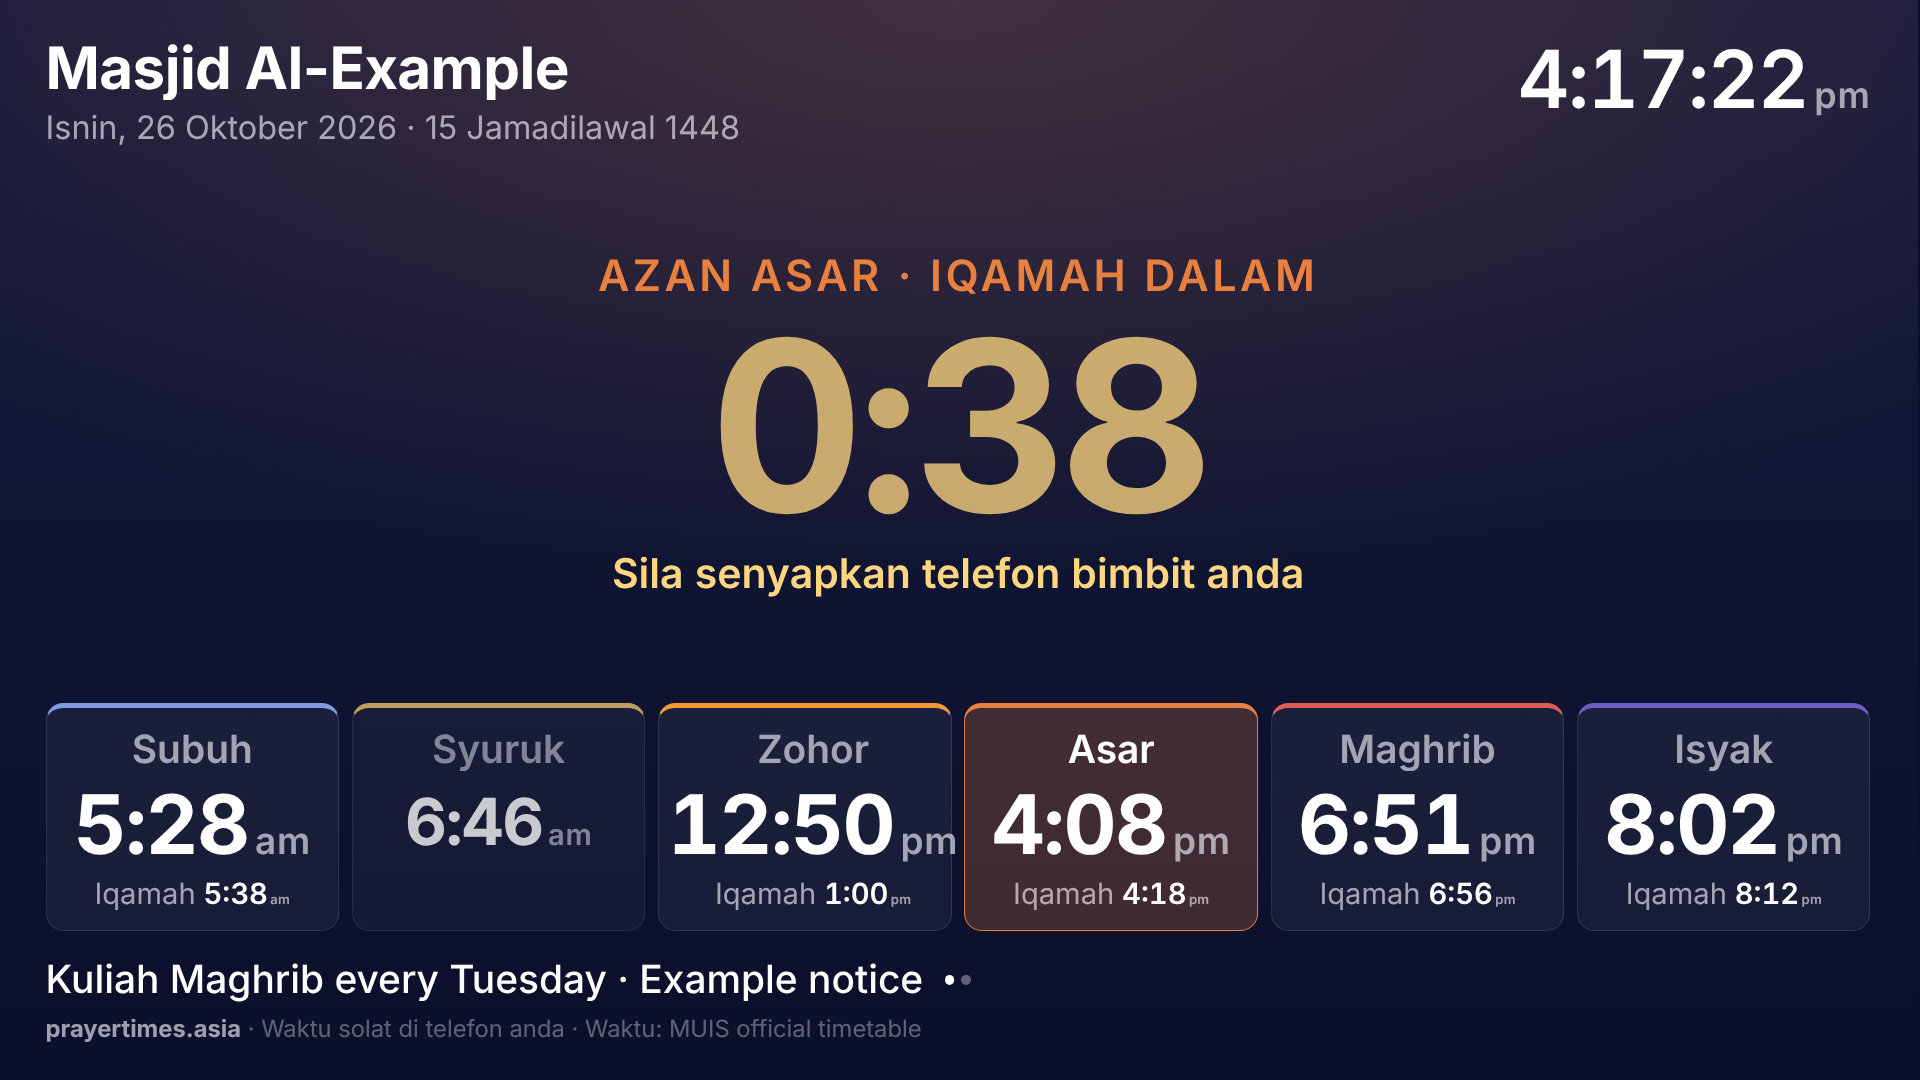
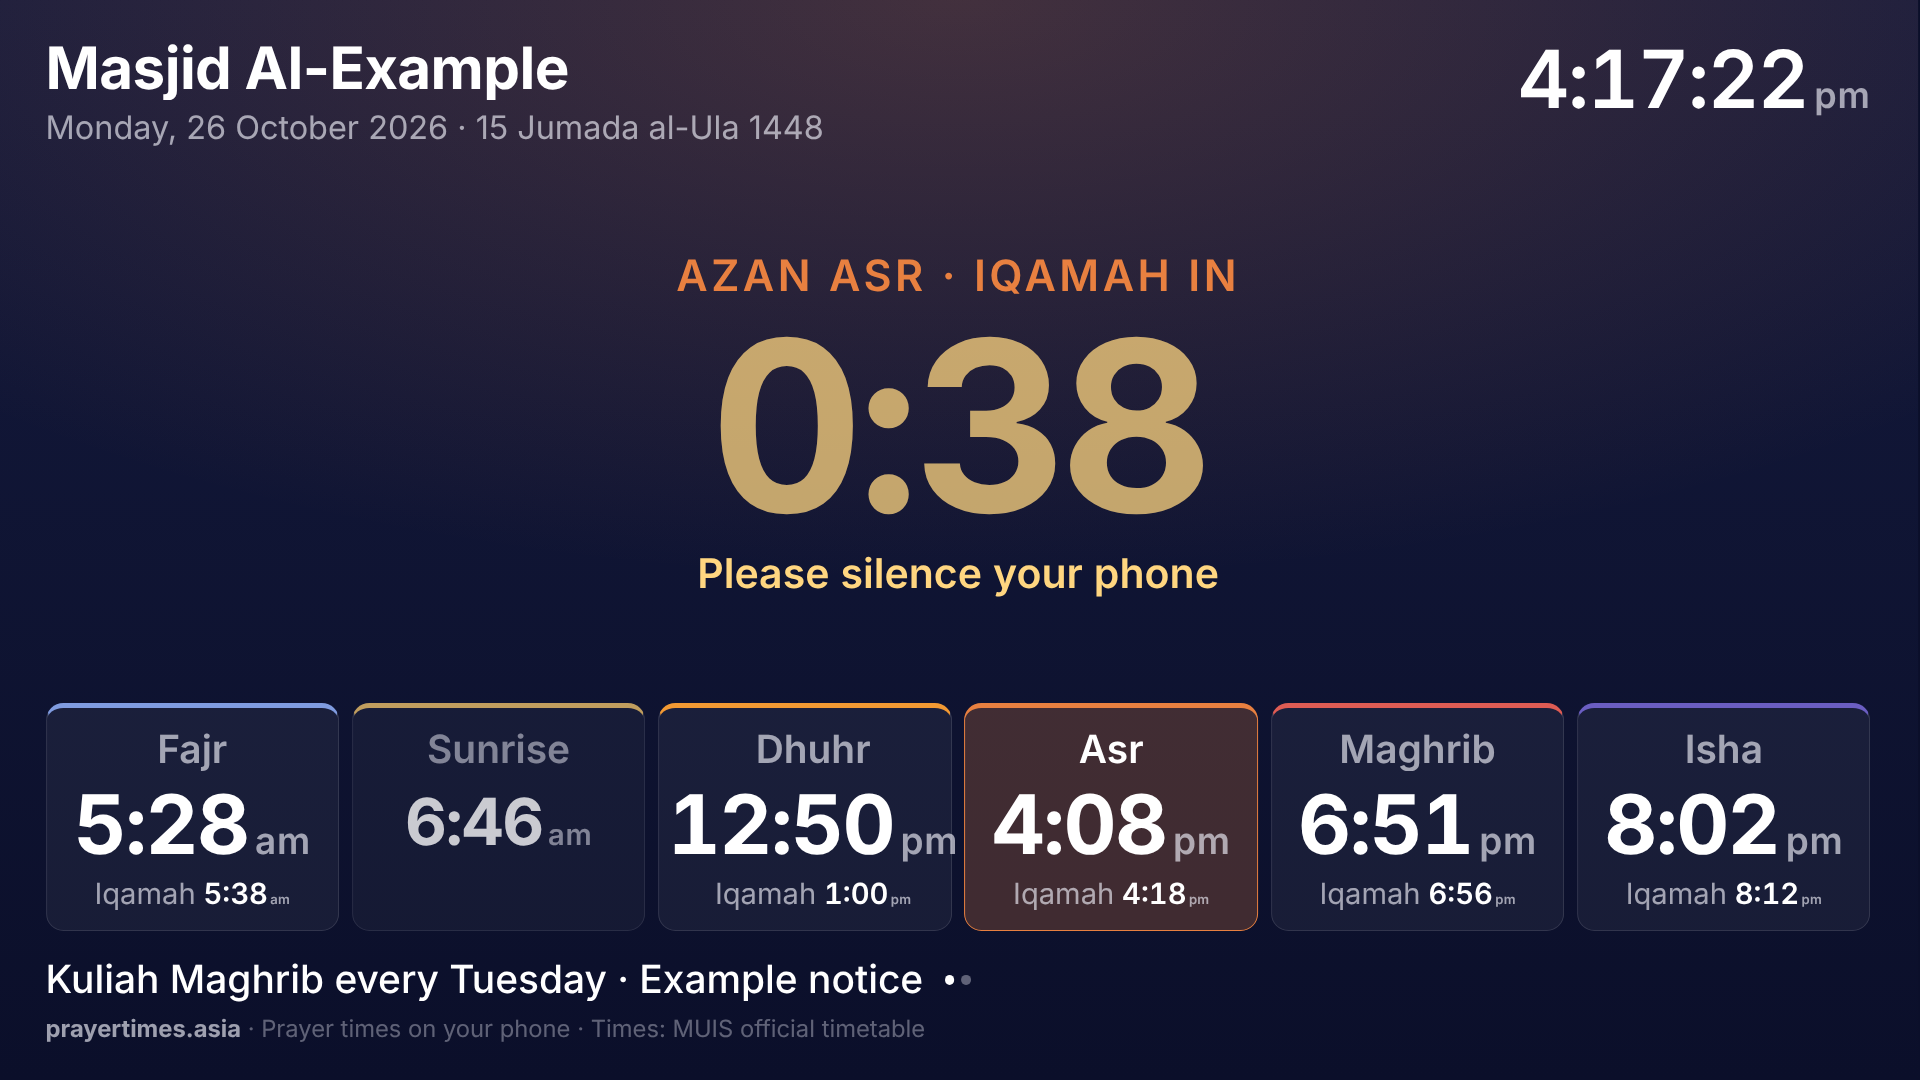
Masjid screen: English by default, three looks (Night, Day, Board)
Claude-Session: https://claude.ai/code/session_01N3UT55kGUzTCzRML5iKXZQ

diff --git a/web/src/screen/Setup.tsx b/web/src/screen/Setup.tsx
@@ -7,7 +7,7 @@ import { nearestCity, searchCities } from '../services/cities'
 import { ensureTable } from '../services/officialTables'
 import {
   encodeConfig, iqamahText, isHHMM, MAX_NOTICE_LENGTH, MAX_NOTICES, OBLIGATORY_PRAYERS, parseIqamah,
-  type Obligatory, type ScreenConfig, type ScreenLanguage, type ScreenPlace,
+  type Obligatory, type ScreenConfig, type ScreenLanguage, type ScreenLook, type ScreenPlace,
 } from './config'
 import { Display } from './Display'
 import { Frame } from './Frame'
@@ -159,6 +159,12 @@ export function Setup({ initial, now, onOpen }: { initial: ScreenConfig; now: nu
 
           <fieldset>
             <legend>Language and look</legend>
+            <label for="s-look">Look</label>
+            <select id="s-look" value={c.look} onChange={(e) => set({ look: (e.target as HTMLSelectElement).value as ScreenLook })}>
+              <option value="night">Night: dark, calm in a dim hall</option>
+              <option value="day">Day: light, for bright halls and foyers</option>
+              <option value="board">Board: times as a list, like a departure board</option>
+            </select>
             <label for="s-names">Prayer names</label>
             <select id="s-names" value={c.names} onChange={(e) => set({ names: (e.target as HTMLSelectElement).value as NamingStyle })}>
               {NAMING_STYLES.map((n) => <option key={n} value={n}>{NAMING_LABEL[n]}</option>)}
@@ -166,9 +172,9 @@ export function Setup({ initial, now, onOpen }: { initial: ScreenConfig; now: nu
             <label class="check"><input id="s-arabic" type="checkbox" checked={c.arabic} onChange={(e) => set({ arabic: (e.target as HTMLInputElement).checked })} /> Switch with Arabic names every 8 seconds</label>
             <label for="s-lang">Screen words</label>
             <select id="s-lang" value={c.lang} onChange={(e) => set({ lang: (e.target as HTMLSelectElement).value as ScreenLanguage })}>
+              <option value="en">English</option>
               <option value="ms">Bahasa Melayu</option>
               <option value="id">Bahasa Indonesia</option>
-              <option value="en">English</option>
             </select>
             <label class="check"><input id="s-h24" type="checkbox" checked={c.h24} onChange={(e) => set({ h24: (e.target as HTMLInputElement).checked })} /> 24-hour clock</label>
             <label for="s-hijri">Hijri date adjustment (days)</label>

diff --git a/web/src/screen/screen.css b/web/src/screen/screen.css
@@ -116,6 +116,34 @@ button, input, select, textarea { font: inherit; color: inherit; }
 .scr-dim p { margin: 0; font-size: calc(var(--u) * 3.4); }
 .scr-dim-clock { font-size: calc(var(--u) * 4.4) !important; }
 
+/* MARK: Looks */
+
+/* Day: light, for bright halls and foyers where a dark screen looks like a hole in the wall. */
+.scr-look-day {
+  --bg: #efece4; --bg2: #fbfaf6; --fg: #141629; --fg2: rgba(20, 22, 41, 0.66); --fg3: rgba(20, 22, 41, 0.42);
+  --line: rgba(20, 22, 41, 0.12); --gold: rgb(168, 108, 8);
+  color: var(--fg); color-scheme: light;
+}
+.scr-look-day .scr-cell { background: rgba(255, 255, 255, 0.75); }
+.scr-look-day .scr-cell.on { background: rgba(0, 0, 0, 0.06); background: color-mix(in srgb, var(--tint) 20%, #fff); }
+
+/* Board: countdown on the left, the day's times as rows on the right (like a departure board). */
+.landscape .scr-look-board { grid-template-columns: minmax(0, 1fr) minmax(0, 1.2fr); grid-template-rows: auto 1fr auto; column-gap: calc(var(--u) * 4); }
+.landscape .scr-look-board .scr-head, .landscape .scr-look-board .scr-foot { grid-column: 1 / -1; }
+.landscape .scr-look-board .scr-big { font-size: calc(var(--u) * 17); }
+.landscape .scr-look-board .scr-line { font-size: calc(var(--u) * 3.4); }
+.scr-look-board .scr-grid { grid-auto-flow: row; grid-auto-columns: auto; grid-template-columns: 1fr; align-content: center; gap: calc(var(--u) * 0.9); }
+.scr-look-board .scr-cell {
+  grid-template-columns: minmax(0, 1fr) auto minmax(0, 1fr); justify-items: start; align-items: baseline;
+  padding: calc(var(--u) * 1.1) calc(var(--u) * 2.4); border-top: 1px solid var(--line); border-left: calc(var(--u) * 0.6) solid var(--tint);
+  border-radius: calc(var(--u) * 0.8);
+}
+.scr-look-board .scr-cell .scr-t { font-size: calc(var(--u) * 5.6); justify-self: end; }
+.scr-look-board .scr-name { font-size: calc(var(--u) * 3.8); }
+.scr-look-board .scr-iq { justify-self: end; font-size: calc(var(--u) * 2.9); }
+.scr-look-board .scr-syuruk .scr-t, .scr-look-board .scr-imsak .scr-t { font-size: calc(var(--u) * 4.6); }
+.portrait .scr-look-board .scr-grid { grid-template-columns: 1fr; }
+
 /* Portrait: times in two columns under the countdown. */
 .portrait .scr-head { flex-direction: column; align-items: stretch; }
 .portrait .scr-clock { font-size: calc(var(--u) * 9); }

diff --git a/web/src/screen/config.ts b/web/src/screen/config.ts
@@ -13,6 +13,10 @@ export interface IqamahRule { after?: number; fixed?: string }
 
 export type ScreenLanguage = 'en' | 'ms' | 'id'
 
+/** Night (dark, the default), Day (light, for bright halls), Board (a departure-board list). */
+export type ScreenLook = 'night' | 'day' | 'board'
+export const LOOKS: readonly ScreenLook[] = ['night', 'day', 'board']
+
 export interface ScreenPlace {
   name: string
   lat: number
@@ -33,6 +37,7 @@ export interface ScreenConfig {
   /** Switch prayer names with Arabic every few seconds. */
   arabic: boolean
   lang: ScreenLanguage
+  look: ScreenLook
   iqamah: Partial<Record<Obligatory, IqamahRule>>
   /** Khutbah starts, "HH:mm"; Friday's Zohor becomes Jumu'ah. */
   jumuah: string | null
@@ -49,9 +54,10 @@ export const DEFAULT_CONFIG: ScreenConfig = {
   name: '',
   place: null,
   zone: null,
-  names: 'malay',
+  names: 'arabic',
   arabic: false,
-  lang: 'ms',
+  lang: 'en',
+  look: 'night',
   iqamah: { fajr: { after: 10 }, dhuhr: { after: 10 }, asr: { after: 10 }, maghrib: { after: 5 }, isha: { after: 10 } },
   jumuah: null,
   notices: [],
@@ -113,6 +119,7 @@ export function sanitize(raw: unknown): ScreenConfig {
   if (NAMING.includes(r.names as NamingStyle)) out.names = r.names as NamingStyle
   out.arabic = r.arabic === true
   if (r.lang === 'en' || r.lang === 'ms' || r.lang === 'id') out.lang = r.lang
+  if (LOOKS.includes(r.look as ScreenLook)) out.look = r.look as ScreenLook
   if (r.iqamah && typeof r.iqamah === 'object') {
     out.iqamah = {}
     for (const prayer of OBLIGATORY_PRAYERS) {

diff --git a/web/tests/screen.test.ts b/web/tests/screen.test.ts
@@ -38,6 +38,13 @@ describe('screen config', () => {
     expect(c.iqamah).toEqual({ asr: { fixed: '16:20' } })
   })
 
+  it('defaults to English and the Night look, and keeps a chosen look', () => {
+    expect(DEFAULT_CONFIG.lang).toBe('en')
+    expect(DEFAULT_CONFIG.look).toBe('night')
+    expect(sanitize({ look: 'board' }).look).toBe('board')
+    expect(sanitize({ look: 'disco' }).look).toBe('night')
+  })
+
   it('reads iqamah as minutes or a time', () => {
     expect(parseIqamah('10')).toEqual({ after: 10 })
     expect(parseIqamah(' 7 ')).toEqual({ after: 7 })

diff --git a/web/src/screen/main.tsx b/web/src/screen/main.tsx
@@ -27,7 +27,8 @@ export const DEMO_CONFIG: ScreenConfig = {
 }
 
 function initialConfig(): ScreenConfig | null {
-  if (query.has('demo')) return DEMO_CONFIG
+  // ?demo&look=day&lang=ms for screenshots of each variation.
+  if (query.has('demo')) return sanitize({ ...DEMO_CONFIG, look: query.get('look'), lang: query.get('lang') ?? 'en', names: query.get('names') ?? DEMO_CONFIG.names })
   const fromLink = configFromHash(location.hash)
   if (fromLink) { writeJSON(STORAGE, fromLink); return fromLink }
   const saved = readJSON<unknown>(STORAGE)

diff --git a/web/src/screen/Display.tsx b/web/src/screen/Display.tsx
@@ -23,7 +23,7 @@ export function Display({ config: c, now, arabicTurn = false }: { config: Screen
   const hijriStyle = c.names === 'malay' || c.names === 'indonesian' ? c.names : 'arabic'
 
   return (
-    <div class={`scr scr-${phase.kind}`} style={{ '--tint': `var(--t-${tint})` }}>
+    <div class={`scr scr-${phase.kind} scr-look-${c.look}`} style={{ '--tint': `var(--t-${tint})` }}>
       <header class="scr-head">
         <div class="scr-title">
           <h1>{c.name || c.place.name}</h1>

diff --git a/web/README.md b/web/README.md
@@ -39,7 +39,9 @@ one link (the settings ride in the `#hash`, never sent anywhere) that the TV ope
 dims during prayer, keeps the TV awake, drifts a few pixels against burn-in and reloads at 3 am.
 Why it works this way: [docs/masjid-screen.md](../docs/masjid-screen.md). Screenshots: [`docs/screenshots/screen/`](docs/screenshots/screen/).
 
-Demo: `screen/?demo&now=2026-10-26T16:17:22%2B08:00` (add `&setup` for the setup page).
+Three looks: Night (default), Day (light) and Board (times as a list). English by default; Malay and Indonesian in setup.
+
+Demo: `screen/?demo&now=2026-10-26T16:17:22%2B08:00` (add `&look=day` or `&look=board`, `&lang=ms&names=malay`, or `&setup`).
 
 ## How it is built
 
